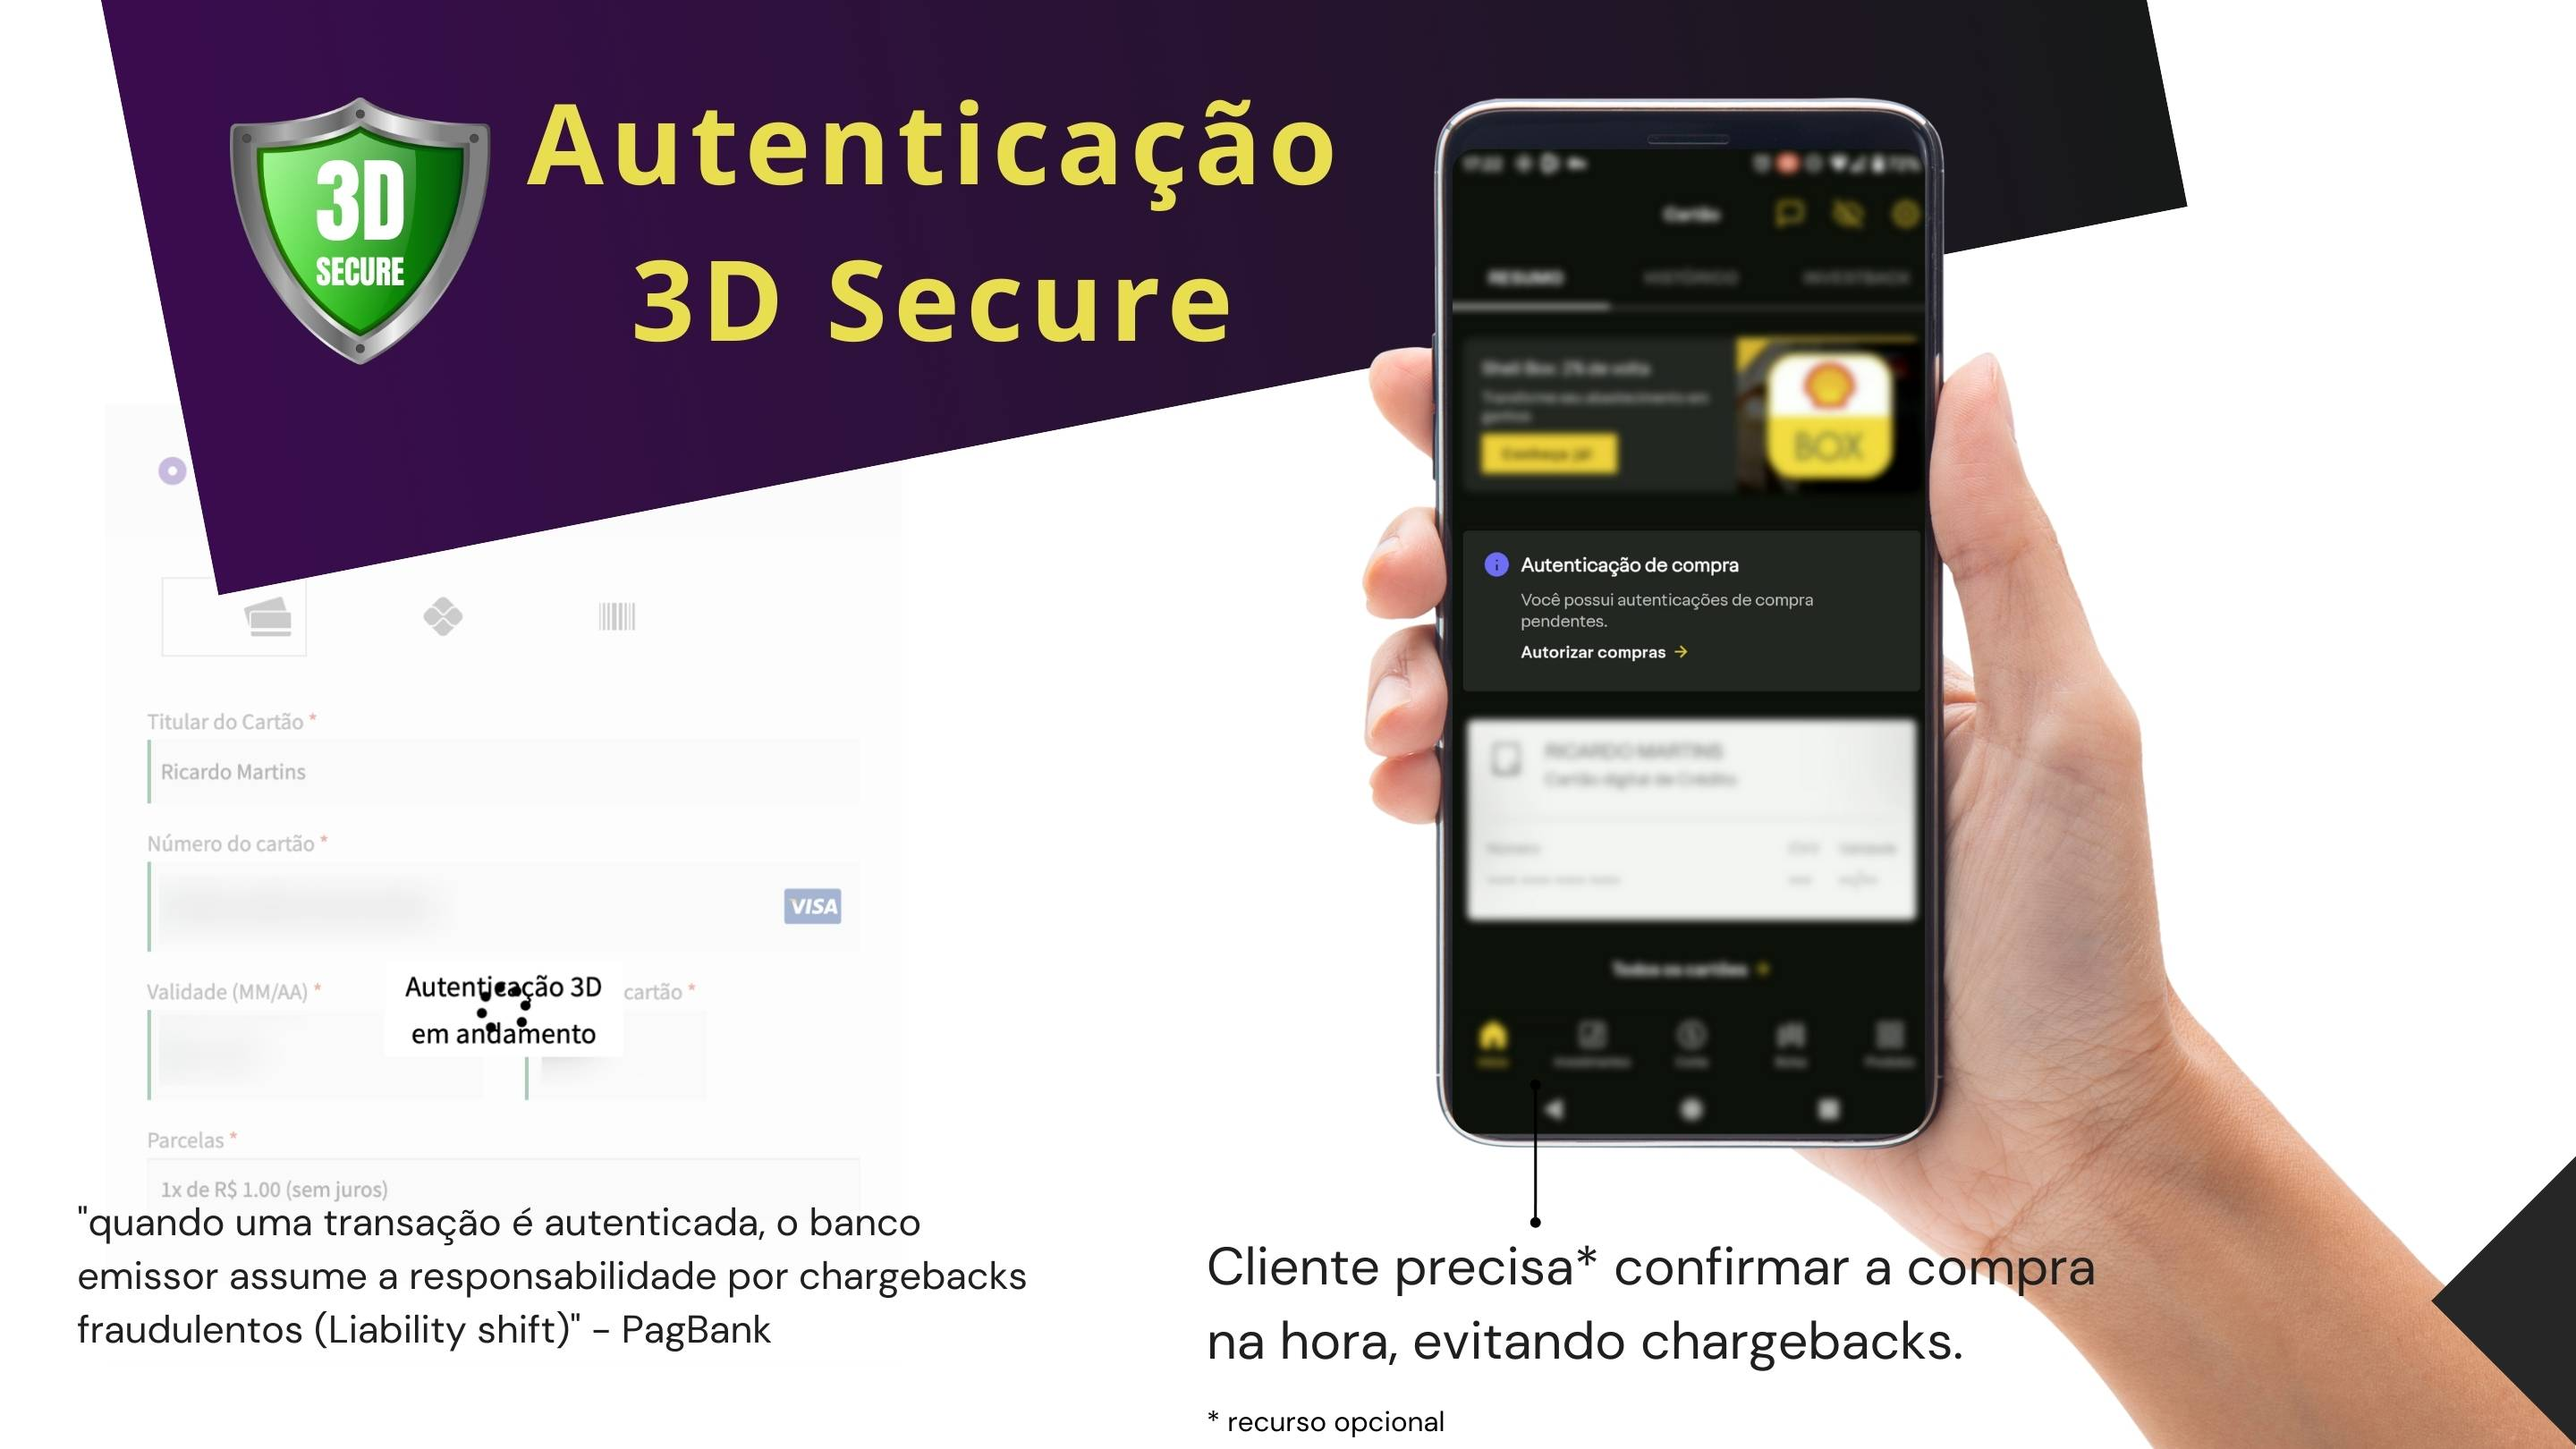
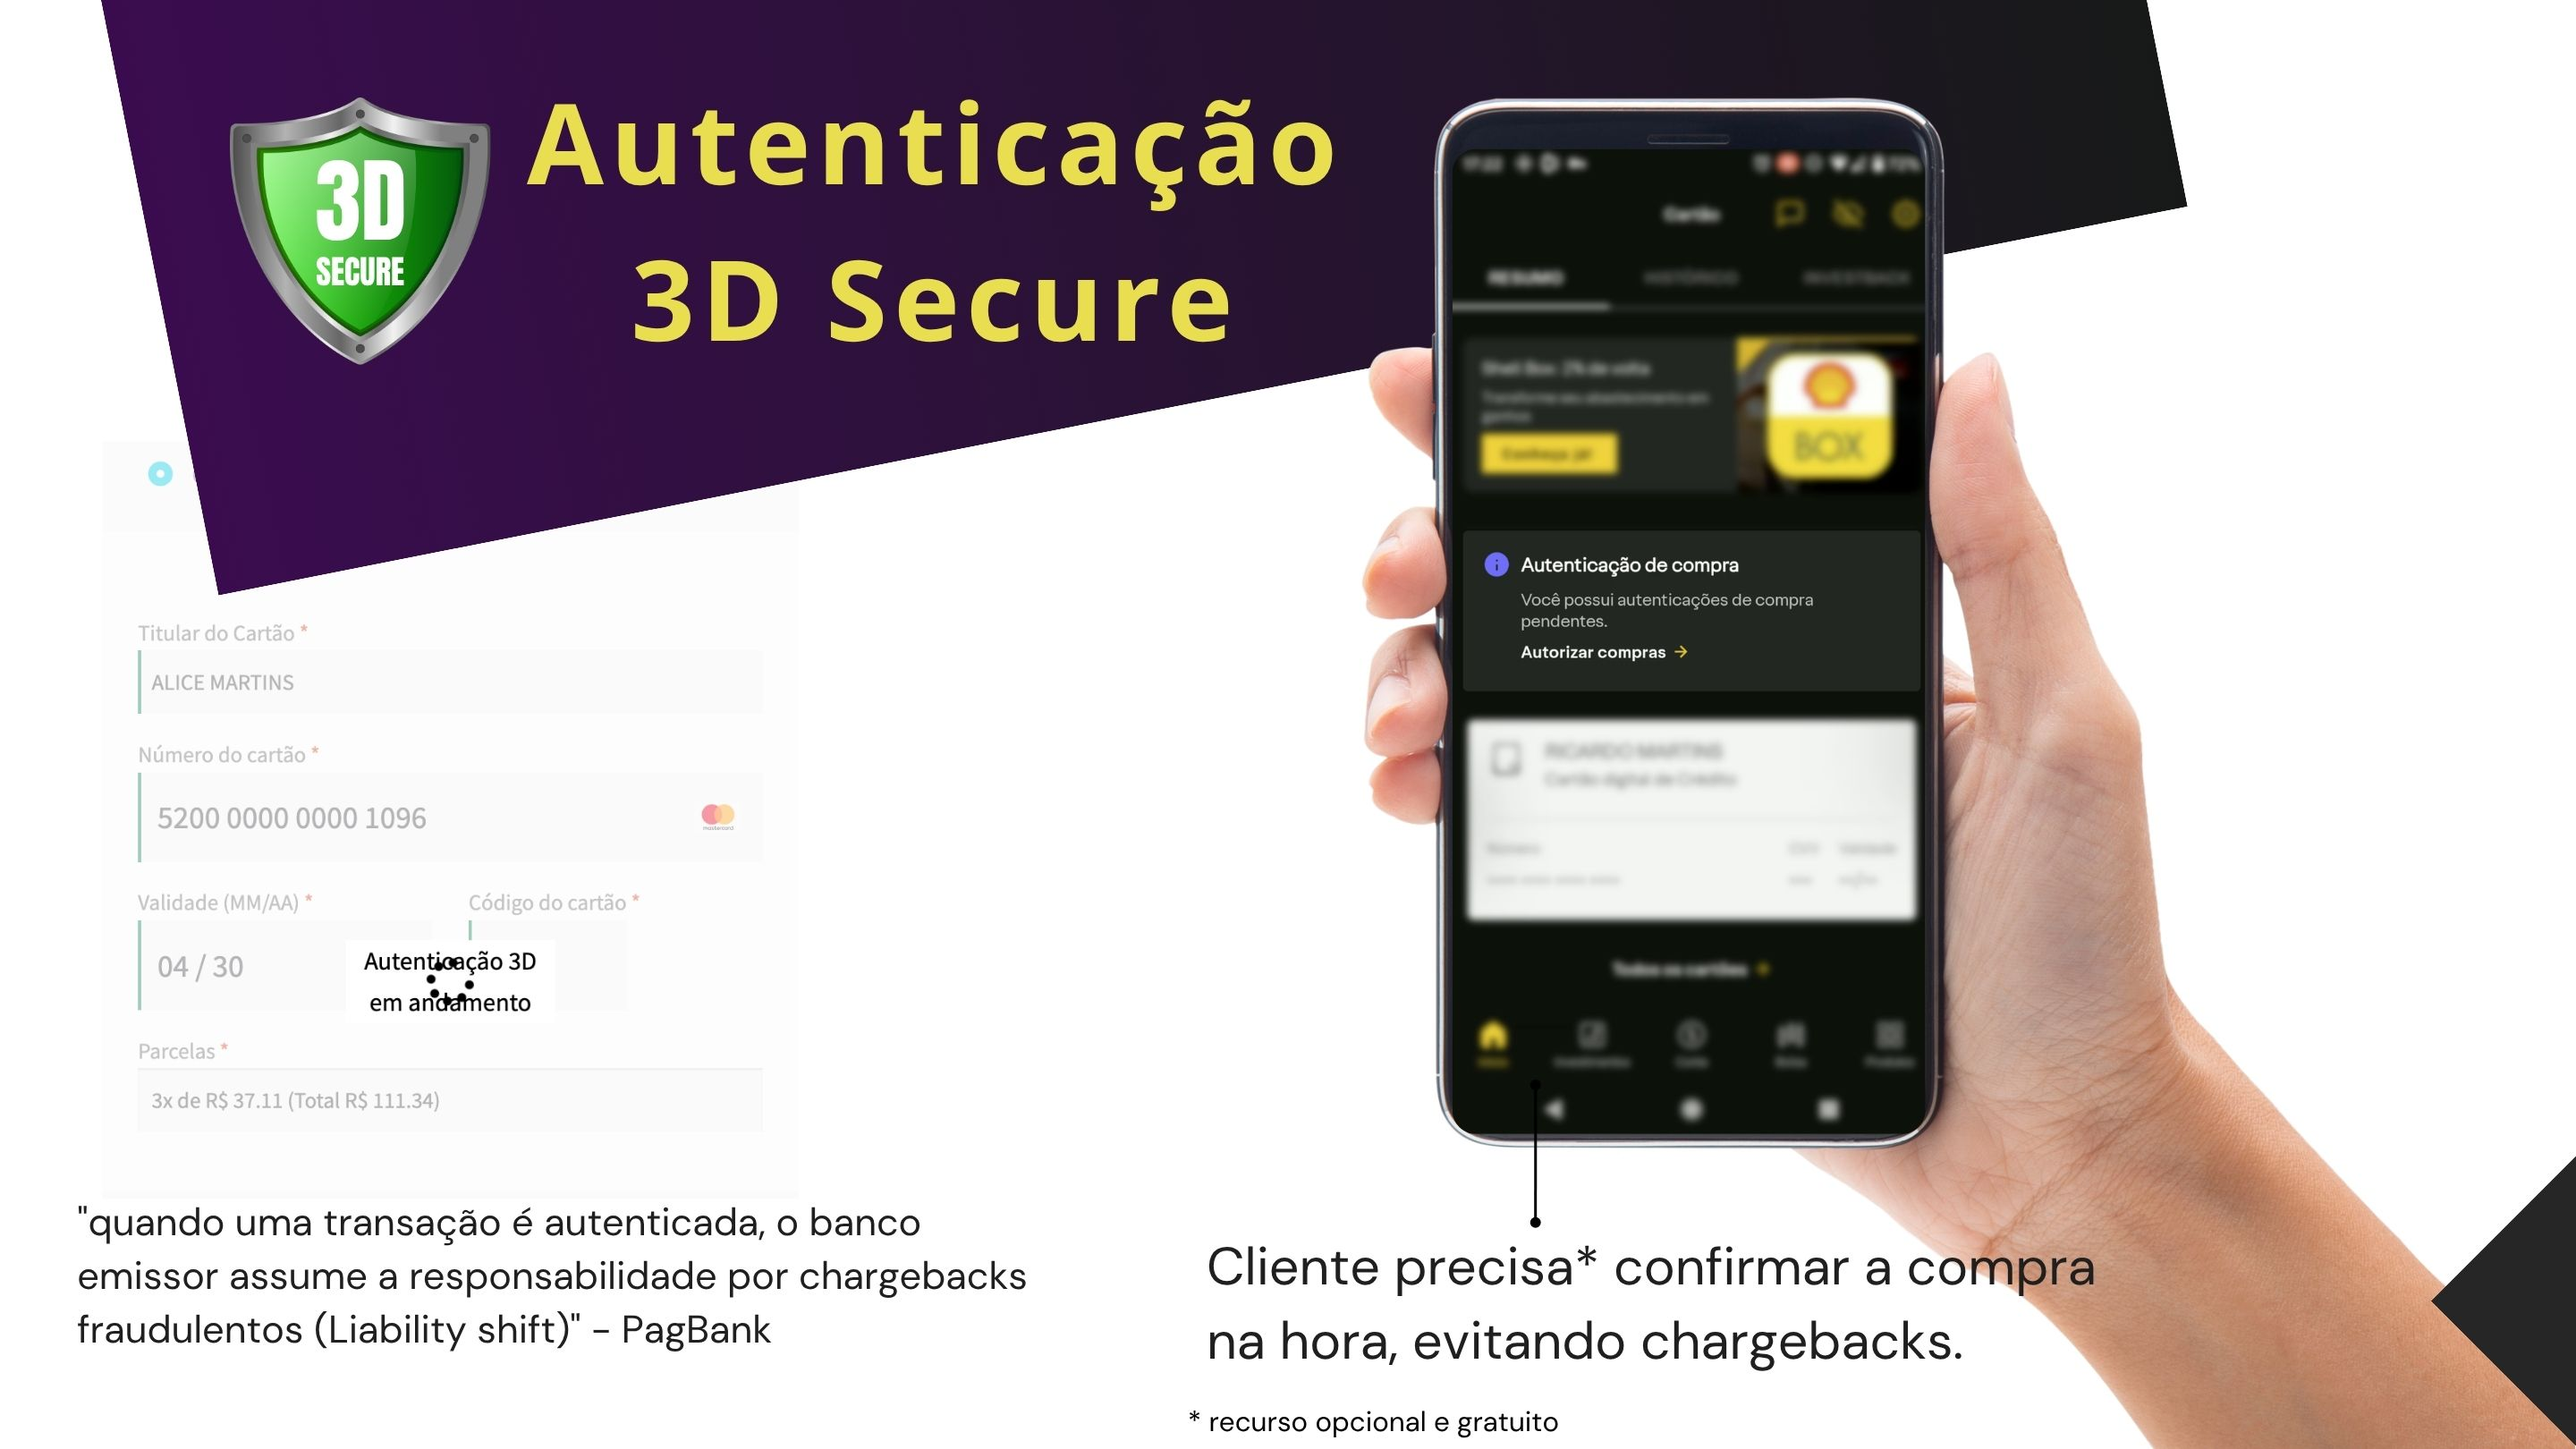
v. 4.54.1 * Correção: no checkout em blocos, quando um desconto era aplicado as parcelas do cartão não eram atualizadas, e a autenticação 3D falhava em alguns cenários pedindo para recarregar a página * Correção: no checkout em blocos, quando o usuário falhava em digitar uma das informações corretam

diff --git a/rm-pagbank.php b/rm-pagbank.php
@@ -11,7 +11,7 @@
  * Plugin Name:       PagBank Connect
  * Plugin URI:        https://pbintegracoes.com
  * Description:       Integra seu WooCommerce com as APIs PagSeguro v4 através da aplicação de Ricardo Martins (com descontos nas taxas oficiais), com suporte a PIX transparente e muito mais.
- * Version:           4.54.0
+ * Version:           4.54.1
  * Requires at least: 5.2
  * Tested up to:      6.9
  * Requires PHP:      7.4
@@ -33,7 +33,7 @@ use RM_PagBank\EnvioFacil;
 defined( 'ABSPATH' ) || die( 'No direct script access allowed!' );
 
 // Plugin constants.
-define( 'WC_PAGSEGURO_CONNECT_VERSION', '4.54.0' );
+define( 'WC_PAGSEGURO_CONNECT_VERSION', '4.54.1' );
 define( 'WC_PAGSEGURO_CONNECT_PLUGIN_FILE', __FILE__ );
 define( 'WC_PAGSEGURO_CONNECT_BASE_DIR', __DIR__ );
 define( 'WC_PAGSEGURO_CONNECT_TEMPLATES_DIR', WC_PAGSEGURO_CONNECT_BASE_DIR . '/src/templates/' );
